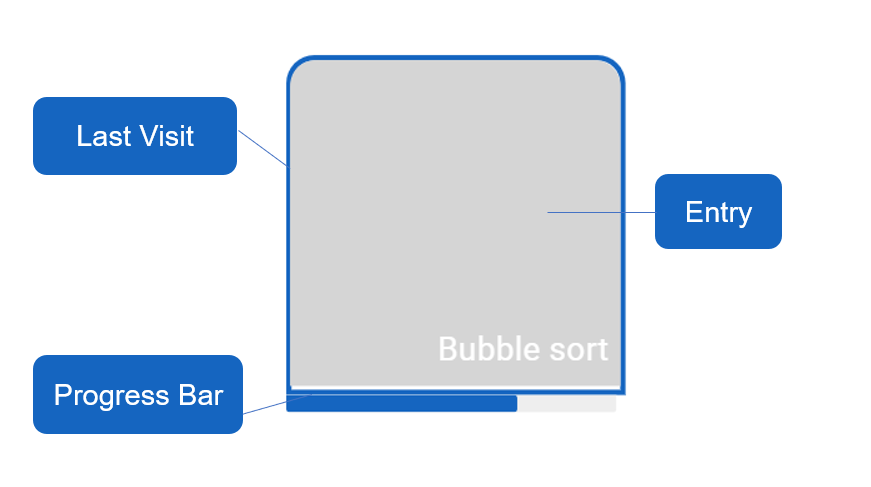
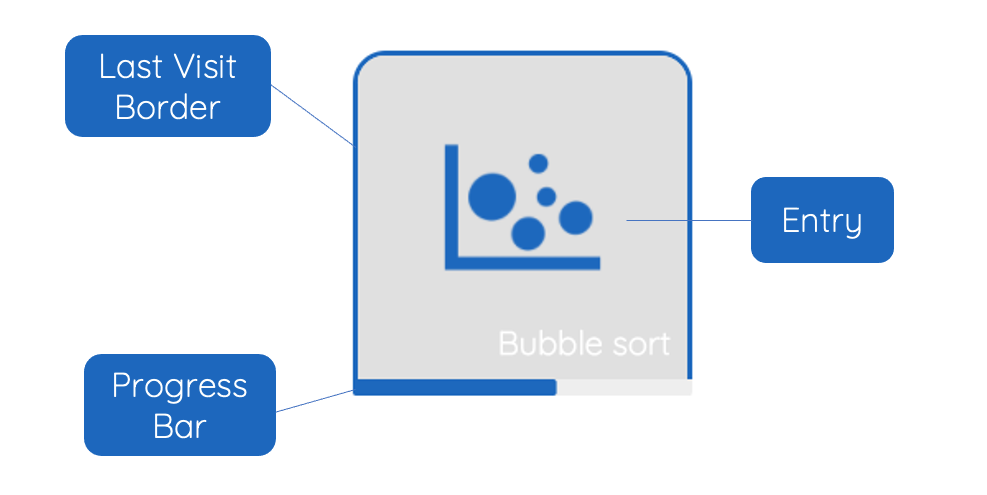
refactor(Help): update help page pictures

Changed region(s): [[0.031, 0.0616, 0.93, 0.924], [0.868, 0.3388, 0.899, 0.3696]]

diff --git a/src/components/Buttons/Help.jsx b/src/components/Buttons/Help.jsx
@@ -67,7 +67,7 @@ import Backdrop from '@material-ui/core/Backdrop';
           <CardActionArea style={{width:'580px', height:'403px', marginBottom:"15px"}} >
             <img src={logo1} alt="logo1" width='587' heigh='300'  />
             <CardContent>
-              <Typography variant="body2" color="textSecondary" component="p">
+              <Typography variant="body2" color="textSecondary" component="p" style={{ marginLeft: "20px", marginRight: "20px" }}>
                 This a entry for each sorting algorithm.
                 Choose one and click it to enter next Page.
                 A progress bar is at the bottom, it shows how much you have learnt.      
@@ -81,8 +81,8 @@ import Backdrop from '@material-ui/core/Backdrop';
             <img src={logo2} alt="logo2" width='587' heigh='300'  />
             <CardContent>
               <Typography variant="body2" color="textSecondary" component="p">
-                Left one is a setting button, click  it to change settings.
-                Right one is a help button, click it to see explanations for each component.          
+                The left one is a setting button, click it to modify settings. <br></br>
+                The right one is a help button, click it to see how to use the software.          
               </Typography>             
             </CardContent>
           </CardActionArea>
@@ -139,10 +139,9 @@ import Backdrop from '@material-ui/core/Backdrop';
               <div>
                 <CardActionArea  style={{width:'580px', height:'403px', marginBottom:"15px"}}>               
                   <img src={logo3} alt="logo3" width='587' heigh='300'  />
-                  <CardContent>
-                    <Typography variant="body2" color="textSecondary" component="p">
-                      This a choice menu. Menu contains Tutorial, Procedure, Efficiency, Correctness and Exercise.
-                      Choose a module and click it.   
+                  <CardContent style={{marginBottom:"-70px", marginTop:"60px"}}>
+                    <Typography variant="body2" color="textSecondary" component="p" style={{ marginLeft: "8px" }}>
+                      This a section menu. Choose one of the sections Tutorial, Procedure and Correctness to begin your journey.
                     </Typography>                
                   </CardContent>           
                 </CardActionArea>

diff --git a/src/scenes/mainPages/Tutorial.jsx b/src/scenes/mainPages/Tutorial.jsx
@@ -12,7 +12,7 @@ import { makeStyles } from "@material-ui/core/styles";
 import Grid from "@material-ui/core/Grid";
 import logo1 from "../../Resource/Chelp1.png";
 import logo2 from "../../Resource/Chelp2.png";
-import logo3 from "../../Resource/Chelp3.png";
+import logo3 from "../../Resource/Thelp3.png";
 import { motion } from "framer-motion";
 //Set css
 const useStyles = makeStyles((theme) => ({
